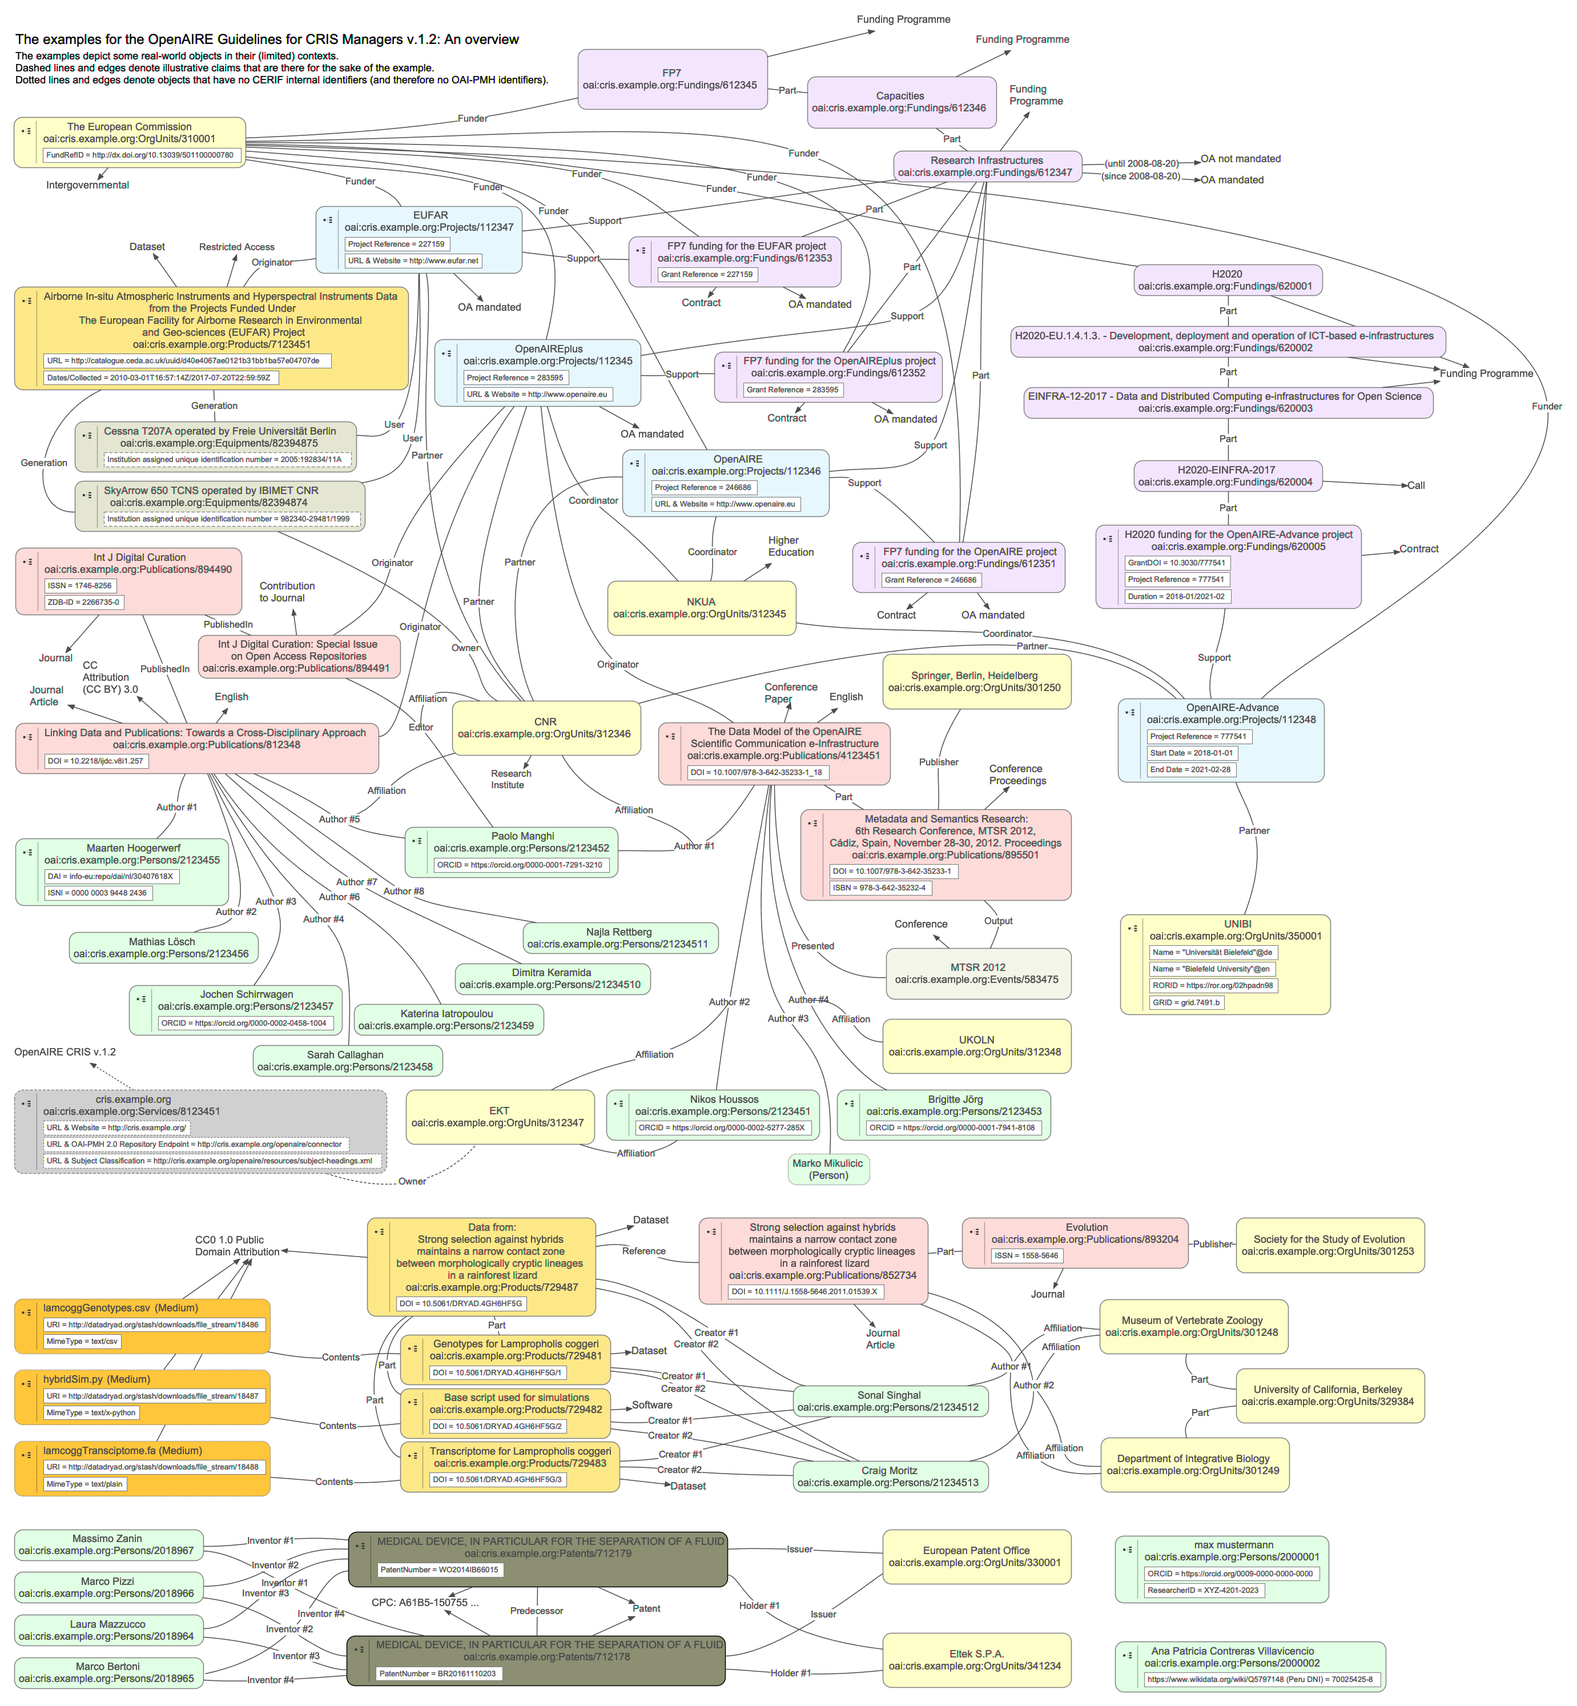
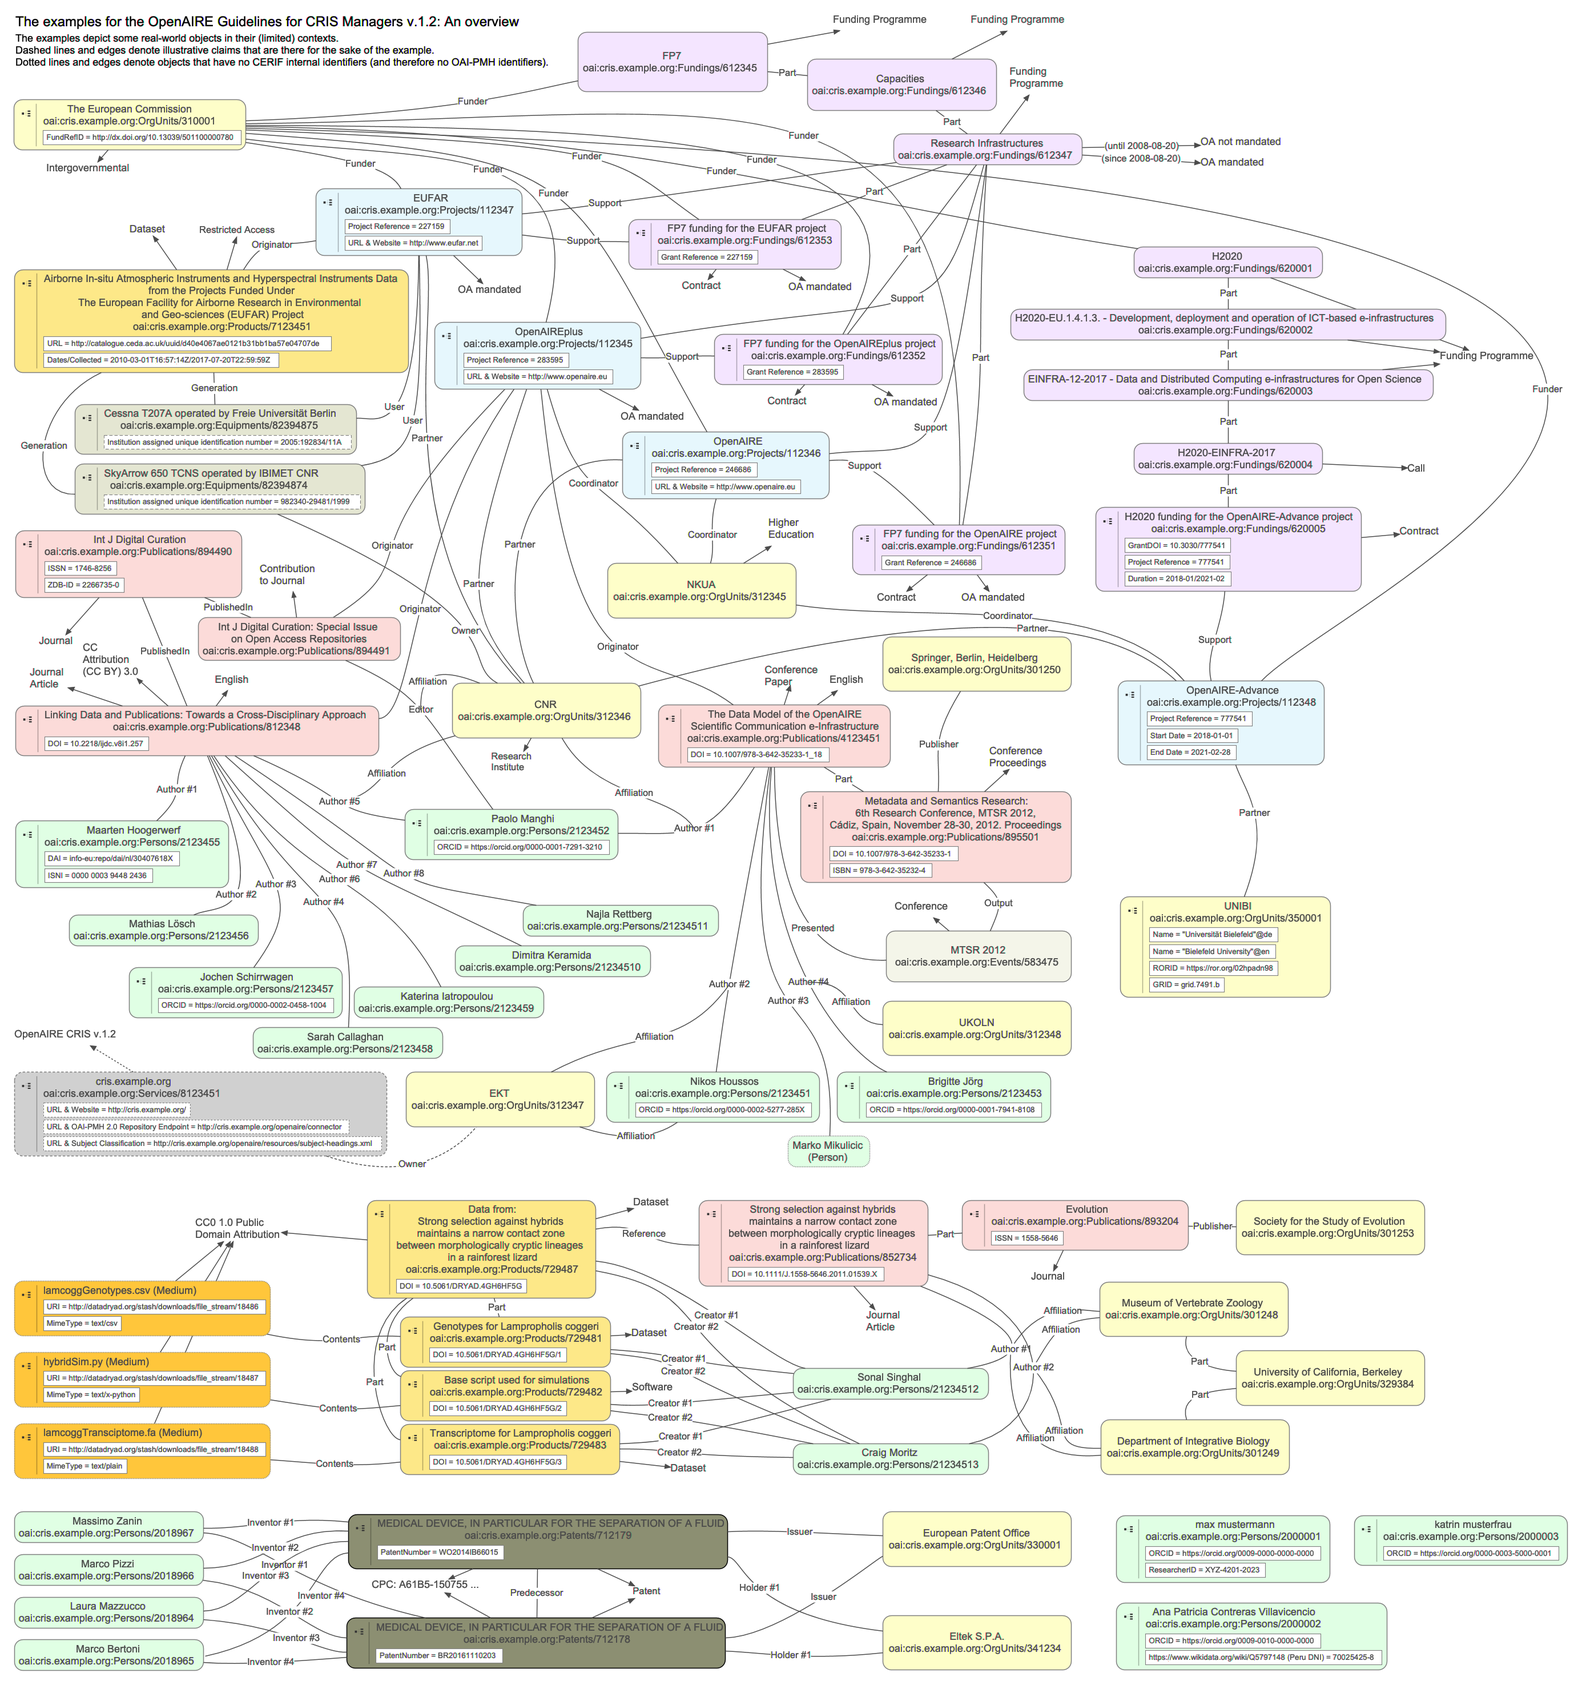
Add the example ORCID iDs

diff --git a/docs/_illustrations/OpenAIRE-examples-map.vue b/docs/_illustrations/OpenAIRE-examples-map.vue
@@ -1,14 +1,14 @@
-<!-- Tufts VUE 3.3.0 concept-map (OpenAIRE-examples-map.vue) 2023-07-06 -->
+<!-- Tufts VUE 3.3.0 concept-map (OpenAIRE-examples-map.vue) 2023-07-23 -->
 <!-- Tufts VUE: http://vue.tufts.edu/ -->
 <!-- Do Not Remove: VUE mapping @version(1.1) jar:file:/Applications/VUE.app/Contents/Resources/Java/VUE.jar!/tufts/vue/resources/lw_mapping_1_1.xml -->
-<!-- Do Not Remove: Saved date Thu Jul 06 14:41:27 CEST 2023 by jdvorak on platform Mac OS X 10.16 in JVM 1.8.0_172-b11 -->
+<!-- Do Not Remove: Saved date Sun Jul 23 12:23:34 CEST 2023 by jdvorak on platform Mac OS X 10.16 in JVM 1.8.0_292-b10 -->
 <!-- Do Not Remove: Saving version @(#)VUE: built October 8 2015 at 1658 by tomadm on Linux 2.6.32-504.23.4.el6.x86_64 i386 JVM 1.7.0_21-b11(bits=32) -->
 <?xml version="1.0" encoding="US-ASCII"?>
 <LW-MAP xmlns:xsi="http://www.w3.org/2001/XMLSchema-instance"
     xsi:noNamespaceSchemaLocation="none" ID="0"
     label="OpenAIRE-examples-map.vue" created="1434792177028" x="0.0"
     y="0.0" width="992.4211" height="1399.0116" strokeWidth="0.0" autoSized="false">
-    <resource referenceCreated="1688647287998" size="245299"
+    <resource referenceCreated="1690107814830" size="246809"
         spec="/Users/jdvorak/workspace/guidelines-cris-managers/docs/_illustrations/OpenAIRE-examples-map.vue"
         type="1" xsi:type="URLResource">
         <title>OpenAIRE-examples-map.vue</title>
@@ -589,10 +589,9 @@
         <ID1 xsi:type="node">33</ID1>
         <ID2 xsi:type="text">40</ID2>
     </child>
-    <child ID="47"
-        label="CC Attribution &#xa;    &#xa;    &#xa;      (CC BY) 3.0"
-        layerID="1" created="1434793983892" x="281.1336" y="835.13916"
-        width="77.0" height="43.0" strokeWidth="0.0" autoSized="false" xsi:type="text">
+    <child ID="47" label="CC Attribution (CC BY) 3.0" layerID="1"
+        created="1434793983892" x="281.1336" y="835.13916" width="77.0"
+        height="43.0" strokeWidth="0.0" autoSized="false" xsi:type="text">
         <strokeColor>#404040</strokeColor>
         <textColor>#4C4C4C</textColor>
         <font>SansSerif-plain-14</font>
@@ -619,10 +618,7 @@
   &lt;/body&gt;
 &lt;/html&gt;
 </richText>
-        <label>CC Attribution 
-    
-    
-      (CC BY) 3.0</label>
+        <label>CC Attribution (CC BY) 3.0</label>
     </child>
     <child ID="48" layerID="1" created="1434794001633" x="343.91403"
         y="877.63916" width="37.346375" height="32.534912"
@@ -1222,7 +1218,7 @@
         <ID2 xsi:type="text">89</ID2>
     </child>
     <child ID="93"
-        label="The examples depict some real-world objects in their &#xa;      (limited) contexts. &#xa;    &#xa;    &#xa;      Dashed lines and edges denote illustrative claims &#xa;      that are there for the sake of the example. &#xa;    &#xa;    &#xa;      Dotted lines and edges denote objects that have no CERIF internal &#xa;      identifiers (and therefore no OAI-PMH identifiers)."
+        label="The examples depict some real-world objects in their &#xa;      (limited) contexts. Dashed lines and edges denote illustrative claims &#xa;      that are there for the sake of the example. Dotted lines and edges denote objects that have no CERIF internal &#xa;      identifiers (and therefore no OAI-PMH identifiers)."
         layerID="1" created="1434799807095" x="202.47324" y="123.56627"
         width="634.0" height="57.0" strokeWidth="0.0" autoSized="false" xsi:type="text">
         <strokeColor>#404040</strokeColor>
@@ -1258,14 +1254,8 @@
 &lt;/html&gt;
 </richText>
         <label>The examples depict some real-world objects in their 
-      (limited) contexts. 
-    
-    
-      Dashed lines and edges denote illustrative claims 
-      that are there for the sake of the example. 
-    
-    
-      Dotted lines and edges denote objects that have no CERIF internal 
+      (limited) contexts. Dashed lines and edges denote illustrative claims 
+      that are there for the sake of the example. Dotted lines and edges denote objects that have no CERIF internal 
       identifiers (and therefore no OAI-PMH identifiers).</label>
     </child>
     <child ID="94" label="Partner" layerID="1" created="1434800119995"
@@ -1541,7 +1531,7 @@
         <ctrlPoint1 x="670.1216" y="853.50696" xsi:type="point"/>
     </child>
     <child ID="123" label="Funding Programme" layerID="1"
-        created="1435477902319" x="1184.951" y="81.28814" width="123.0"
+        created="1435477902319" x="1156.951" y="101.65411" width="123.0"
         height="20.0" strokeWidth="0.0" autoSized="false" xsi:type="text">
         <strokeColor>#404040</strokeColor>
         <textColor>#4C4C4C</textColor>
@@ -1568,29 +1558,29 @@
 </richText>
         <label>Funding Programme</label>
     </child>
-    <child ID="124" layerID="1" created="1435477921121" x="1079.6313"
-        y="100.78815" width="125.924194" height="31.178284"
+    <child ID="124" layerID="1" created="1435477921121" x="1079.9924"
+        y="121.1541" width="85.43335" height="16.774506"
         strokeWidth="1.0" autoSized="false" controlCount="0"
         arrowState="2" xsi:type="link">
         <strokeColor>#4C4C4C</strokeColor>
         <textColor>#4C4C4C</textColor>
         <font>Arial-plain-11</font>
         <URIString>http://vue.tufts.edu/rdf/resource/3928ffcdc0a8012258d63b5b0481ca72</URIString>
-        <point1 x="1080.1315" y="131.46643"/>
-        <point2 x="1205.0557" y="101.28815"/>
+        <point1 x="1080.4924" y="137.4286"/>
+        <point2 x="1164.9258" y="121.6541"/>
         <ID1 xsi:type="node">8</ID1>
         <ID2 xsi:type="text">123</ID2>
     </child>
-    <child ID="125" layerID="1" created="1435477923414" x="1300.2739"
-        y="123.98816" width="64.5365" height="31.16455"
+    <child ID="125" layerID="1" created="1435477923414" x="1295.355"
+        y="121.15411" width="65.095215" height="33.998596"
         strokeWidth="1.0" autoSized="false" controlCount="0"
         arrowState="2" xsi:type="link">
         <strokeColor>#4C4C4C</strokeColor>
         <textColor>#4C4C4C</textColor>
         <font>Arial-plain-11</font>
         <URIString>http://vue.tufts.edu/rdf/resource/3928ffcec0a8012258d63b5b5679fce8</URIString>
-        <point1 x="1300.7739" y="154.65271"/>
-        <point2 x="1364.3104" y="124.48816"/>
+        <point1 x="1295.855" y="154.65271"/>
+        <point2 x="1359.9502" y="121.65411"/>
         <ID1 xsi:type="node">9</ID1>
         <ID2 xsi:type="text">168</ID2>
     </child>
@@ -1990,7 +1980,7 @@
         <ctrlPoint1 x="561.3687" y="1030.4431" xsi:type="point"/>
     </child>
     <child ID="168" label="Funding Programme" layerID="1"
-        created="1517483158354" x="1323.8738" y="104.488144"
+        created="1517483158354" x="1317.8738" y="101.65411"
         width="123.0" height="20.0" strokeWidth="0.0" autoSized="false" xsi:type="text">
         <strokeColor>#404040</strokeColor>
         <textColor>#4C4C4C</textColor>
@@ -4039,7 +4029,7 @@
     </child>
     <child ID="316"
         label="max mustermann&#xa;oai:cris.example.org:Persons/2000001"
-        layerID="1" created="1688624650407" x="1486.8037" y="1858.1025"
+        layerID="1" created="1688624650407" x="1488.1001" y="1855.091"
         width="249.0" height="78.0" strokeWidth="1.0" autoSized="true" xsi:type="node">
         <fillColor>#E0FFE4</fillColor>
         <strokeColor>#7F7F7F</strokeColor>
@@ -4071,16 +4061,27 @@
     </child>
     <child ID="319"
         label="Ana Patricia Contreras Villavicencio&#xa;oai:cris.example.org:Persons/2000002"
-        layerID="1" created="1688625104385" x="1486.8037" y="1981.5326"
-        width="315.75" height="58.5" strokeWidth="1.0" autoSized="true" xsi:type="node">
+        layerID="1" created="1688625104385" x="1488.1001" y="1957.1543"
+        width="315.75" height="78.0" strokeWidth="1.0" autoSized="true" xsi:type="node">
         <fillColor>#E0FFE4</fillColor>
         <strokeColor>#7F7F7F</strokeColor>
         <textColor>#4C4C4C</textColor>
         <font>Arial-plain-12</font>
         <URIString>http://vue.tufts.edu/rdf/resource/29e76127c0a801b2263ee0ccc6d6dd41</URIString>
+        <child ID="379"
+            label="ORCID = https://orcid.org/0009-0010-0000-0000"
+            created="1690107234390" x="34.0" y="36.0" width="273.0"
+            height="22.0" strokeWidth="1.0" autoSized="true" xsi:type="node">
+            <fillColor>#FFFFFF</fillColor>
+            <strokeColor>#7F7F7F</strokeColor>
+            <textColor>#4C4C4C</textColor>
+            <font>Arial-plain-12</font>
+            <URIString>http://vue.tufts.edu/rdf/resource/823fa0fac0a8017814d8d1ea16624111</URIString>
+            <shape xsi:type="rectangle"/>
+        </child>
         <child ID="320"
             label="https://www.wikidata.org/wiki/Q5797148 (Peru DNI) = 70025425-8"
-            created="1688625104385" x="34.0" y="36.0" width="368.0"
+            created="1688625104385" x="34.0" y="55.5" width="368.0"
             height="22.0" strokeWidth="1.0" autoSized="true" xsi:type="node">
             <fillColor>#FFFFFF</fillColor>
             <strokeColor>#7F7F7F</strokeColor>
@@ -4163,7 +4164,7 @@
         <ctrlPoint1 x="1373.8384" y="767.06354" xsi:type="point"/>
     </child>
     <child ID="329" label="Partner" layerID="1" created="1688625779350"
-        x="1626.6163" y="977.82983" width="41.218872" height="155.58325"
+        x="1626.6163" y="977.82983" width="40.718872" height="155.58325"
         strokeWidth="1.0" autoSized="false" controlCount="2"
         arrowState="0" xsi:type="link">
         <strokeColor>#4C4C4C</strokeColor>
@@ -4178,7 +4179,7 @@
         <ctrlPoint1 x="1671.1637" y="1044.1628" xsi:type="point"/>
     </child>
     <child ID="330" label="Funder" layerID="1" created="1688625861958"
-        x="471.12323" y="234.75345" width="1538.1963" height="646.5764"
+        x="471.12323" y="234.75345" width="1537.6963" height="646.5764"
         strokeWidth="1.0" autoSized="false" controlCount="2"
         arrowState="0" xsi:type="link">
         <strokeColor>#4C4C4C</strokeColor>
@@ -4271,7 +4272,7 @@
         <shape arcwidth="20.0" archeight="20.0" xsi:type="roundRect"/>
     </child>
     <child ID="336" label="Part" layerID="1" created="1688626032596"
-        x="1608.2653" y="409.75153" width="21.0" height="37.26013"
+        x="1608.7653" y="409.75153" width="20.0" height="37.26013"
         strokeWidth="1.0" autoSized="false" controlCount="0"
         arrowState="0" xsi:type="link">
         <strokeColor>#4C4C4C</strokeColor>
@@ -4295,7 +4296,7 @@
         <shape arcwidth="20.0" archeight="20.0" xsi:type="roundRect"/>
     </child>
     <child ID="338" label="Part" layerID="1" created="1688626075220"
-        x="1608.2653" y="482.01166" width="21.0" height="35.799988"
+        x="1608.7653" y="482.01166" width="20.0" height="35.799988"
         strokeWidth="1.0" autoSized="false" controlCount="0"
         arrowState="0" xsi:type="link">
         <strokeColor>#4C4C4C</strokeColor>
@@ -4346,16 +4347,16 @@
         <ID1 xsi:type="node">226</ID1>
         <ID2 xsi:type="text">353</ID2>
     </child>
-    <child ID="347" layerID="1" created="1688633146000" x="396.62122"
-        y="1534.5974" width="68.19522" height="47.298706"
+    <child ID="347" layerID="1" created="1688633146000" x="388.86255"
+        y="1534.5974" width="56.969635" height="47.298706"
         strokeWidth="1.0" autoSized="false" controlCount="0"
         arrowState="2" xsi:type="link">
         <strokeColor>#4C4C4C</strokeColor>
         <textColor>#4C4C4C</textColor>
         <font>Arial-plain-11</font>
         <URIString>http://vue.tufts.edu/rdf/resource/2a623638c0a801b2263ee0cc0b7f633e</URIString>
-        <point1 x="397.1212" y="1581.3962"/>
-        <point2 x="464.3164" y="1535.0975"/>
+        <point1 x="389.36255" y="1581.3962"/>
+        <point2 x="445.33218" y="1535.0975"/>
         <ID1 xsi:type="node">342</ID1>
         <ID2 xsi:type="text">353</ID2>
     </child>
@@ -4374,8 +4375,7 @@
         <ctrlPoint0 x="580.1546" y="1660.4906" xsi:type="point"/>
         <ctrlPoint1 x="591.5666" y="1642.597" xsi:type="point"/>
     </child>
-    <child ID="353"
-        label="CC0 1.0 Public &#xa;    &#xa;    &#xa;      Domain Attribution"
+    <child ID="353" label="CC0 1.0 Public Domain Attribution"
         layerID="1" created="1688633547516" x="412.3609" y="1506.0975"
         width="101.0" height="29.0" strokeWidth="0.0" autoSized="false" xsi:type="text">
         <strokeColor>#404040</strokeColor>
@@ -4396,7 +4396,7 @@
   &lt;/head&gt;
   &lt;body&gt;
     &lt;p color="#4c4c4c" style="color: #4c4c4c"&gt;
-      CC0 1.0 Public 
+      CC0 1.0 Public
     &lt;/p&gt;
     &lt;p color="#4c4c4c" style="color: #4c4c4c"&gt;
       Domain Attribution
@@ -4404,21 +4404,18 @@
   &lt;/body&gt;
 &lt;/html&gt;
 </richText>
-        <label>CC0 1.0 Public 
-    
-    
-      Domain Attribution</label>
+        <label>CC0 1.0 Public Domain Attribution</label>
     </child>
-    <child ID="354" layerID="1" created="1688633547516" x="374.6648"
-        y="1534.5975" width="100.10068" height="130.50854"
+    <child ID="354" layerID="1" created="1688633547516" x="370.5742"
+        y="1534.5975" width="83.5448" height="130.50854"
         strokeWidth="1.0" autoSized="false" controlCount="0"
         arrowState="2" xsi:type="link">
         <strokeColor>#4C4C4C</strokeColor>
         <textColor>#4C4C4C</textColor>
         <font>Arial-plain-11</font>
         <URIString>http://vue.tufts.edu/rdf/resource/2a6890fcc0a801b2263ee0cc974aec07</URIString>
-        <point1 x="375.16483" y="1664.6061"/>
-        <point2 x="474.2655" y="1535.0975"/>
+        <point1 x="371.0742" y="1664.6061"/>
+        <point2 x="453.619" y="1535.0975"/>
         <ID1 xsi:type="node">350</ID1>
         <ID2 xsi:type="text">353</ID2>
     </child>
@@ -4437,16 +4434,16 @@
         <ctrlPoint0 x="578.09406" y="1731.9307" xsi:type="point"/>
         <ctrlPoint1 x="582.6398" y="1733.3638" xsi:type="point"/>
     </child>
-    <child ID="359" layerID="1" created="1688633675155" x="366.80466"
-        y="1534.5977" width="111.52252" height="213.71838"
+    <child ID="359" layerID="1" created="1688633675155" x="364.02704"
+        y="1534.5977" width="93.058655" height="213.71838"
         strokeWidth="1.0" autoSized="false" controlCount="0"
         arrowState="2" xsi:type="link">
         <strokeColor>#4C4C4C</strokeColor>
         <textColor>#4C4C4C</textColor>
         <font>Arial-plain-11</font>
         <URIString>http://vue.tufts.edu/rdf/resource/2a697aa5c0a801b2263ee0cc5ef99f1d</URIString>
-        <point1 x="367.30466" y="1747.8159"/>
-        <point2 x="477.82718" y="1535.0975"/>
+        <point1 x="364.52704" y="1747.8159"/>
+        <point2 x="456.5857" y="1535.0975"/>
         <ID1 xsi:type="node">356</ID1>
         <ID2 xsi:type="text">353</ID2>
     </child>
@@ -4573,7 +4570,7 @@
         <shape arcwidth="20.0" archeight="20.0" xsi:type="roundRect"/>
     </child>
     <child ID="363" label="Part" layerID="1" created="1688639854680"
-        x="1608.2653" y="552.81165" width="21.0" height="50.927185"
+        x="1608.7653" y="552.81165" width="20.0" height="50.927185"
         strokeWidth="1.0" autoSized="false" controlCount="0"
         arrowState="0" xsi:type="link">
         <strokeColor>#4C4C4C</strokeColor>
@@ -4668,7 +4665,7 @@
         <shape arcwidth="20.0" archeight="20.0" xsi:type="roundRect"/>
     </child>
     <child ID="368" label="Part" layerID="1" created="1688644978270"
-        x="1608.2653" y="638.7389" width="21.0" height="40.072815"
+        x="1608.7653" y="638.7389" width="20.0" height="40.072815"
         strokeWidth="1.0" autoSized="false" controlCount="0"
         arrowState="0" xsi:type="link">
         <strokeColor>#4C4C4C</strokeColor>
@@ -4722,7 +4719,7 @@
         <ID2 xsi:type="text">369</ID2>
     </child>
     <child ID="371" label="Support" layerID="1" created="1688645035511"
-        x="1583.1843" y="775.3125" width="39.0" height="106.01709"
+        x="1583.6843" y="775.3125" width="38.0" height="106.01709"
         strokeWidth="1.0" autoSized="false" controlCount="2"
         arrowState="0" xsi:type="link">
         <strokeColor>#4C4C4C</strokeColor>
@@ -4736,12 +4733,34 @@
         <ctrlPoint0 x="1591.3046" y="849.37445" xsi:type="point"/>
         <ctrlPoint1 x="1611.3231" y="820.0371" xsi:type="point"/>
     </child>
+    <child ID="376"
+        label="katrin musterfrau&#xa;oai:cris.example.org:Persons/2000003"
+        layerID="1" created="1690107106061" x="1765.7286" y="1855.091"
+        width="249.0" height="58.5" strokeWidth="1.0" autoSized="true" xsi:type="node">
+        <fillColor>#E0FFE4</fillColor>
+        <strokeColor>#7F7F7F</strokeColor>
+        <textColor>#4C4C4C</textColor>
+        <font>Arial-plain-12</font>
+        <URIString>http://vue.tufts.edu/rdf/resource/823fa109c0a8017814d8d1eae70d083a</URIString>
+        <child ID="377"
+            label="ORCID = https://orcid.org/0000-0003-5000-0001"
+            created="1690107106064" x="34.0" y="36.0" width="273.0"
+            height="22.0" strokeWidth="1.0" autoSized="true" xsi:type="node">
+            <fillColor>#FFFFFF</fillColor>
+            <strokeColor>#7F7F7F</strokeColor>
+            <textColor>#4C4C4C</textColor>
+            <font>Arial-plain-12</font>
+            <URIString>http://vue.tufts.edu/rdf/resource/823fa109c0a8017814d8d1ea77014f64</URIString>
+            <shape xsi:type="rectangle"/>
+        </child>
+        <shape arcwidth="20.0" archeight="20.0" xsi:type="roundRect"/>
+    </child>
     <layer ID="1" label="Layer 1" created="1434792177030" x="0.0"
         y="0.0" width="1.4E-45" height="1.4E-45" strokeWidth="0.0" autoSized="false">
         <URIString>http://vue.tufts.edu/rdf/resource/10595862c0a801c361bf61a0192370fd</URIString>
     </layer>
-    <userZoom>0.34094774678163065</userZoom>
-    <userOrigin x="-304.3051" y="7.715008"/>
+    <userZoom>0.5</userZoom>
+    <userOrigin x="-1050.8135" y="28.64407"/>
     <presentationBackground>#202020</presentationBackground>
     <PathwayList currentPathway="0" revealerIndex="-1">
         <pathway ID="0" label="Untitled Pathway" created="1434792177026"
